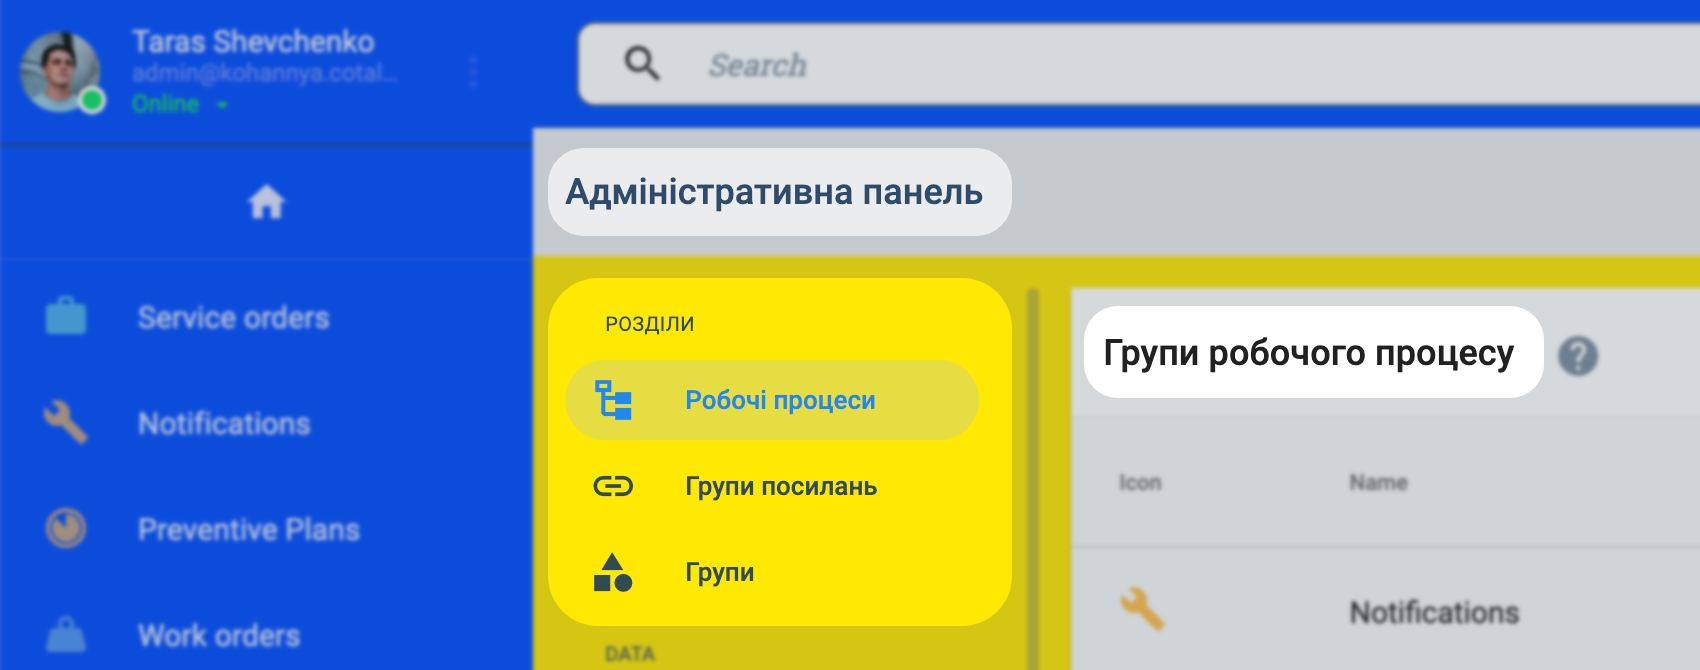
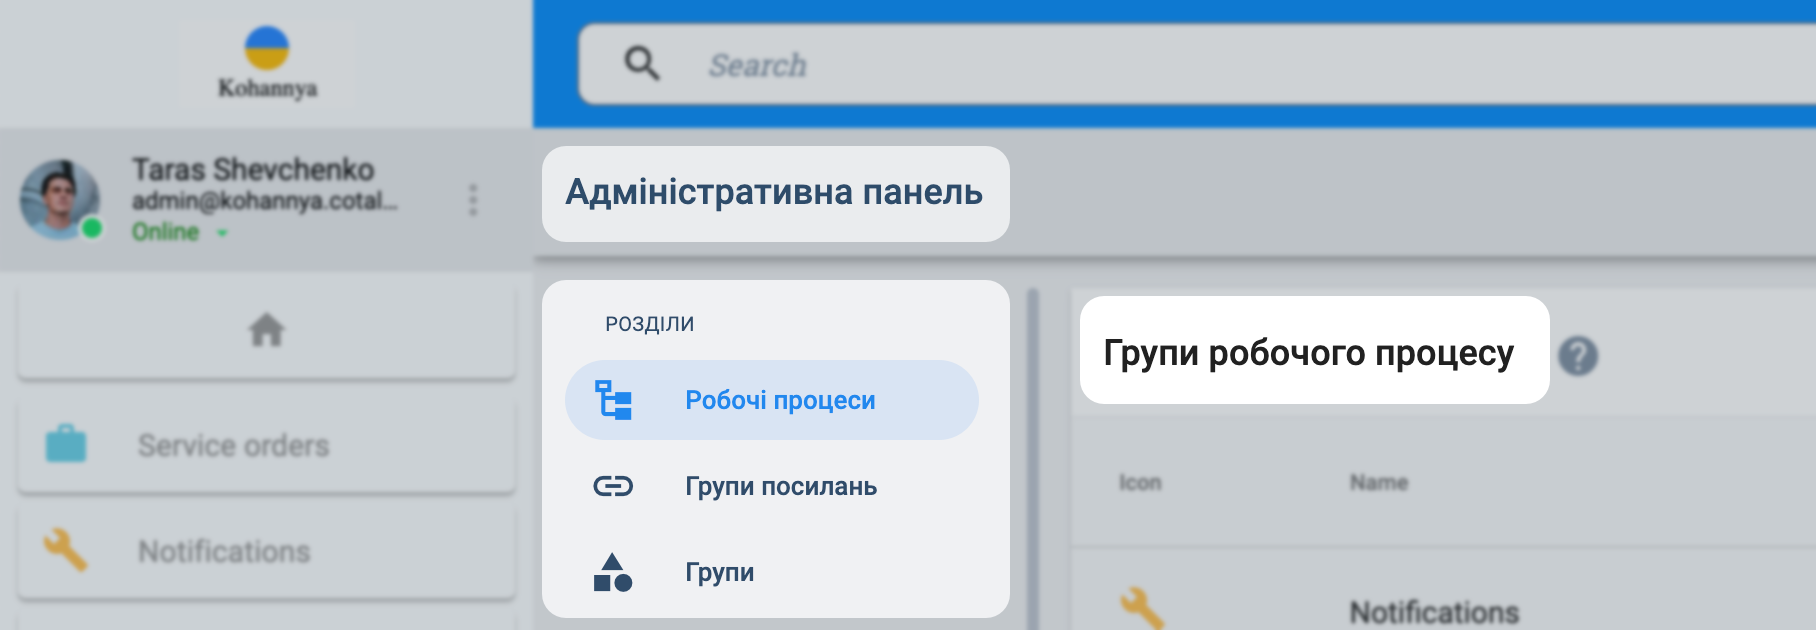
branding what's new and fixes

diff --git a/docs/documentation/admin/special_configurations/branding.md b/docs/documentation/admin/special_configurations/branding.md
@@ -103,26 +103,42 @@ _Send a request body with a `branding` object, as shown in the example below:_
 ### CSS Settings {#css}
 Copy and paste your CSS code in the `branding.style.customCss` field. The code must be sent in string format, i.e., contained within quotation marks.
 
+:::tip
+You can obtain _selectors_, i.e., the CSS tags associated with the elements you want to modify, with Chrome Developer Tools or a Chrome extension like [CSS Peeper](https://chrome.google.com/webstore/detail/css-peeper/mbnbehikldjhnfehhnaidhjhoofhpehk). 
+:::
+
 #### Code Samples {#css-samples}
 
-_The CSS code displayed here corresponds to the example shown in the [Overview](#overview) section:_
+_The CSS code displayed here corresponds to the example shown in the [Overview](#platform-example) section:_
 
-```css
-:root { --white-label-primary-color: #FCFEFF; --secondary-color: rgba(var(--white-label-secondary-color), 0.12); --secondary-color-focus: #028AFB; --general-menu-text-color: 150, 150, 150; --profile-background-color: #E7EAED; --profile-name-color:  black; --profile-email-color:  black; --menu-buttons-shadow: 0px 2px 2px rgba(0, 0, 0, 0.25); --menu-buttons-text-color: #969696; --menu-buttons-text-color-selected: white; --search-bar-background-color: #028AFB;} cotalker-task-list {background-color: white;} cotalker-task-item cotalker-tag .tag-container {background-color: #E2E6EA !important;} cotalker-task-item cotalker-tag span {color: rgba(17,51,85,.56) !important;} cotalker-group-menu .logged-user-status-display {color: green !important;} cotalker-group-menu .cot-icon-font {opacity: 1 !important;} cotalker-group-menu.expanded .cot-icon {filter: contrast(1) brightness(1) opacity(1) !important;} cotalker-group-menu .cot-icon {opacity: 1 !important; filter: contrast(0) brightness(1) opacity(0.85) !important;}
+```json
+{
+    "branding": {
+        "style": {
+            "customCss": {
+                ":root { --white-label-primary-color: #FCFEFF; --secondary-color: rgba(var(--white-label-secondary-color), 0.12); --secondary-color-focus: #028AFB; --general-menu-text-color: 150, 150, 150; --profile-background-color: #E7EAED; --profile-name-color:  black; --profile-email-color:  black; --menu-buttons-shadow: 0px 2px 2px rgba(0, 0, 0, 0.25); --menu-buttons-text-color: #969696; --menu-buttons-text-color-selected: white; --search-bar-background-color: #028AFB;} cotalker-task-list {background-color: white;} cotalker-task-item cotalker-tag .tag-container {background-color: #E2E6EA !important;} cotalker-task-item cotalker-tag span {color: rgba(17,51,85,.56) !important;} cotalker-group-menu .logged-user-status-display {color: green !important;} cotalker-group-menu .cot-icon-font {opacity: 1 !important;} cotalker-group-menu.expanded .cot-icon {filter: contrast(1) brightness(1) opacity(1) !important;} cotalker-group-menu .cot-icon {opacity: 1 !important; filter: contrast(0) brightness(1) opacity(0.85) !important;}"
+            }
+        }
+    }
+}
 ```
 
 _This CSS code corresponds to the example displayed below:_
 
-```css
-:root {--white-label-primary-color: #4D4F53;} cotalker-root {background-color: #E5E5E5;} .login-container {background-color: #8BBB00;} .group-menu-overlay {background-color: rgba(77, 79, 83, 0.24);} .whitelabel-powered-by-cotalker {background-color: rgba(255, 255, 255, 0.12);} .account-widget a {background-color: rgba(77, 79, 83, 0.97);} .account-widget.selected a, .account-widget a:active, .account-widget a:focus {background-color: rgba(255, 255, 255, 0.12);} .side-menu li a.selected, .side-menu li a.group-item:active, .side-menu li a.group-item:focus {background-color: rgba(255, 255, 255, 0.12);} .expanded .account-widget a:hover {background-color: rgba(255, 255, 255, 0.12);} .expanded .account-widget.selected a, .expanded .account-widget a:active, .expanded .account-widget a:focus {background-color: rgba(255, 255, 255, 0.12);} .expanded .side-menu li a:hover {background-color: rgba(255, 255, 255, 0.12);} .expanded .side-menu li a.selected, .expanded .side-menu li a.group-item:active, .expanded .side-menu li a.group-item:focus {background-color: rgba(255, 255, 255, 0.12);}
+```json
+{
+    "branding": {
+        "style": {
+            "customCss": {
+                ":root {--white-label-primary-color: #4D4F53;} cotalker-root {background-color: #E5E5E5;} .login-container {background-color: #8BBB00;} .group-menu-overlay {background-color: rgba(77, 79, 83, 0.24);} .whitelabel-powered-by-cotalker {background-color: rgba(255, 255, 255, 0.12);} .account-widget a {background-color: rgba(77, 79, 83, 0.97);} .account-widget.selected a, .account-widget a:active, .account-widget a:focus {background-color: rgba(255, 255, 255, 0.12);} .side-menu li a.selected, .side-menu li a.group-item:active, .side-menu li a.group-item:focus {background-color: rgba(255, 255, 255, 0.12);} .expanded .account-widget a:hover {background-color: rgba(255, 255, 255, 0.12);} .expanded .account-widget.selected a, .expanded .account-widget a:active, .expanded .account-widget a:focus {background-color: rgba(255, 255, 255, 0.12);} .expanded .side-menu li a:hover {background-color: rgba(255, 255, 255, 0.12);} .expanded .side-menu li a.selected, .expanded .side-menu li a.group-item:active, .expanded .side-menu li a.group-item:focus {background-color: rgba(255, 255, 255, 0.12);}"
+            }
+        }
+    }
+}
 ```
 
 <img alt="branding css" className="img_sizing item shadow--tl" src={useBaseUrl('img/admin_branding_02.png')} />
 <br/>
-
-:::tip
-You can obtain _selectors_, i.e., the CSS tags associated with the elements you want to modify, with Chrome Developer Tools or a Chrome extension like [CSS Peeper](https://chrome.google.com/webstore/detail/css-peeper/mbnbehikldjhnfehhnaidhjhoofhpehk). 
-:::
 
 ### Obtaining Image ObjectId {#images}
 To change images and icons, you must:
@@ -139,12 +155,14 @@ To change images and icons, you must:
 _Example:_
 ```json
 {
-"images": {
+    "branding": {
+        "images": {
             "logotype": "628b9648dd6676581d5fd491",
             "isotype": "629e6e6af9a744da09a43f73",
             "icon512": "629e6e73697a860893d8fd2a",
             "login": "629e6e7b8ee85377e2b73da7"
         }
+    }
 }
 ```
 
@@ -176,7 +194,8 @@ _Translated text sections:_
 _The code used for the example above modifies the English version:_
 ```json
 {
-"translations": {
+    "branding": {
+        "translations": {
             "en": {
                 "admin.main_title": "Адміністративна панель",
                 "subjects.state_machine_groups_other": "Групи робочого процесу",
@@ -186,6 +205,7 @@ _The code used for the example above modifies the English version:_
                 "descriptors.admin_menu_section": "Розділи"
             }
         }
+    }
 }
 ```
 
@@ -193,28 +213,30 @@ _The code used for the example above modifies the English version:_
 Through the `branding.auth` object, you can also enable user login with your company's Google and Microsoft accounts.
 
 :::tip
-- Go to the [COTCompany](/docs/documentation/models/model_company) data model section for details on how to set up authentification with your company's Microsoft or Google accounts.
+- Go to the [COTCompany](/docs/documentation/models/model_company) data model section for `branding.auth` field descriptions.
 - Visit the [Microsoft Azure AD Sign-in Configuration](/docs/documentation/admin/special_configurations/azure_config) section for a step-by-step tutorial.
 - Ask your Cotalker sales representative or support team for more information.
 :::
 
 :::note
-This feature's availability depends on your company's Cotalker plan. Speak with your Cotalker sales representative for more information.
+This feature's availability may depend on your company's Cotalker plan. Speak with your Cotalker sales representative for more information.
 :::
 
 #### Code Sample {#auth-code}
 
 ```json
 {
-    "auth": {
-        "azureAD": {
-            "isActive": false,
-            "clientId": "",
-            "authority": "",
-            "redirectUri": ""
-        },
-        "googleSignIn": {
-            "isActive": true
+    "branding": {
+        "auth": {
+            "azureAD": {
+                "isActive": false,
+                "clientId": "",
+                "authority": "",
+                "redirectUri": ""
+            },
+            "googleSignIn": {
+                "isActive": true
+            }
         }
     }
 }

diff --git a/blog/2022-06-08-branding.md b/blog/2022-06-08-branding.md
@@ -1,0 +1,46 @@
+---
+title: Company Branding
+description: Now you can customize Cotalker with your brand. Modify the platform's colors, buttons, icons, and startup screen images. Customize user sign-in by enabling authentification with your company's Google and Microsoft accounts. Translate Cotalker's UI texts to another language or adapt them to their identity or culture.
+image: img/updates/update_task_default.png
+draft: false
+---
+
+import useBaseUrl from '@docusaurus/useBaseUrl'; 
+import Highlight from '@theme/Highlight';
+
+<div className="align-center">
+<div className="card">
+<div className="card__header">
+
+<span className="hero__subtitle"><em>
+
+Customize Cotalker with your brand.
+
+</em></span>
+
+</div>
+<div className="card__image">
+
+<img alt="feature image" className="img_card item shadow--tl" src={useBaseUrl('img/updates/update_task_default.png')} />
+<br/>
+
+</div>
+<div className="card__body">
+
+Now you can customize Cotalker with your brand: 
+- Modify the platform's colors, buttons, icons, and startup screen images. 
+- Customize user sign-in by enabling authentification with your company's Google and Microsoft accounts. 
+- Translate Cotalker's UI texts to another language or adapt them to their identity or culture.
+
+</div>
+<div className="card__footer text-center align-padding-center">
+
+<a className="button button--info button--block" href="/docs/documentation/admin/special_configurations/branding">Admin Documentation</a>
+<br/>
+
+<a className="button button--info button--block" href="/docs/documentation/models/model_company">API Reference</a>
+<br/>
+
+</div>
+</div>
+</div>

diff --git a/docs/documentation/models/model_company.md b/docs/documentation/models/model_company.md
@@ -8,7 +8,7 @@ import useBaseUrl from '@docusaurus/useBaseUrl';
 
 ## Description
 
-The _Companies_ Data Model (COTCompany) is the underlying configuration for the platform. Most data models are associated with it. It contains basic company information, such as name, tax identification number, and country. It also establishes platform display settings such as language, icon display, initial groups, and much more.
+The _Companies_ Data Model (COTCompany) is the underlying configuration for the platform. Most data models are associated with it. It contains basic company information, such as its name, tax identification number, and country. It also establishes platform display settings such as language, icon display, colors, authentification, and other branding options.
 
 ## JSON Sample {#json-sample}
 
